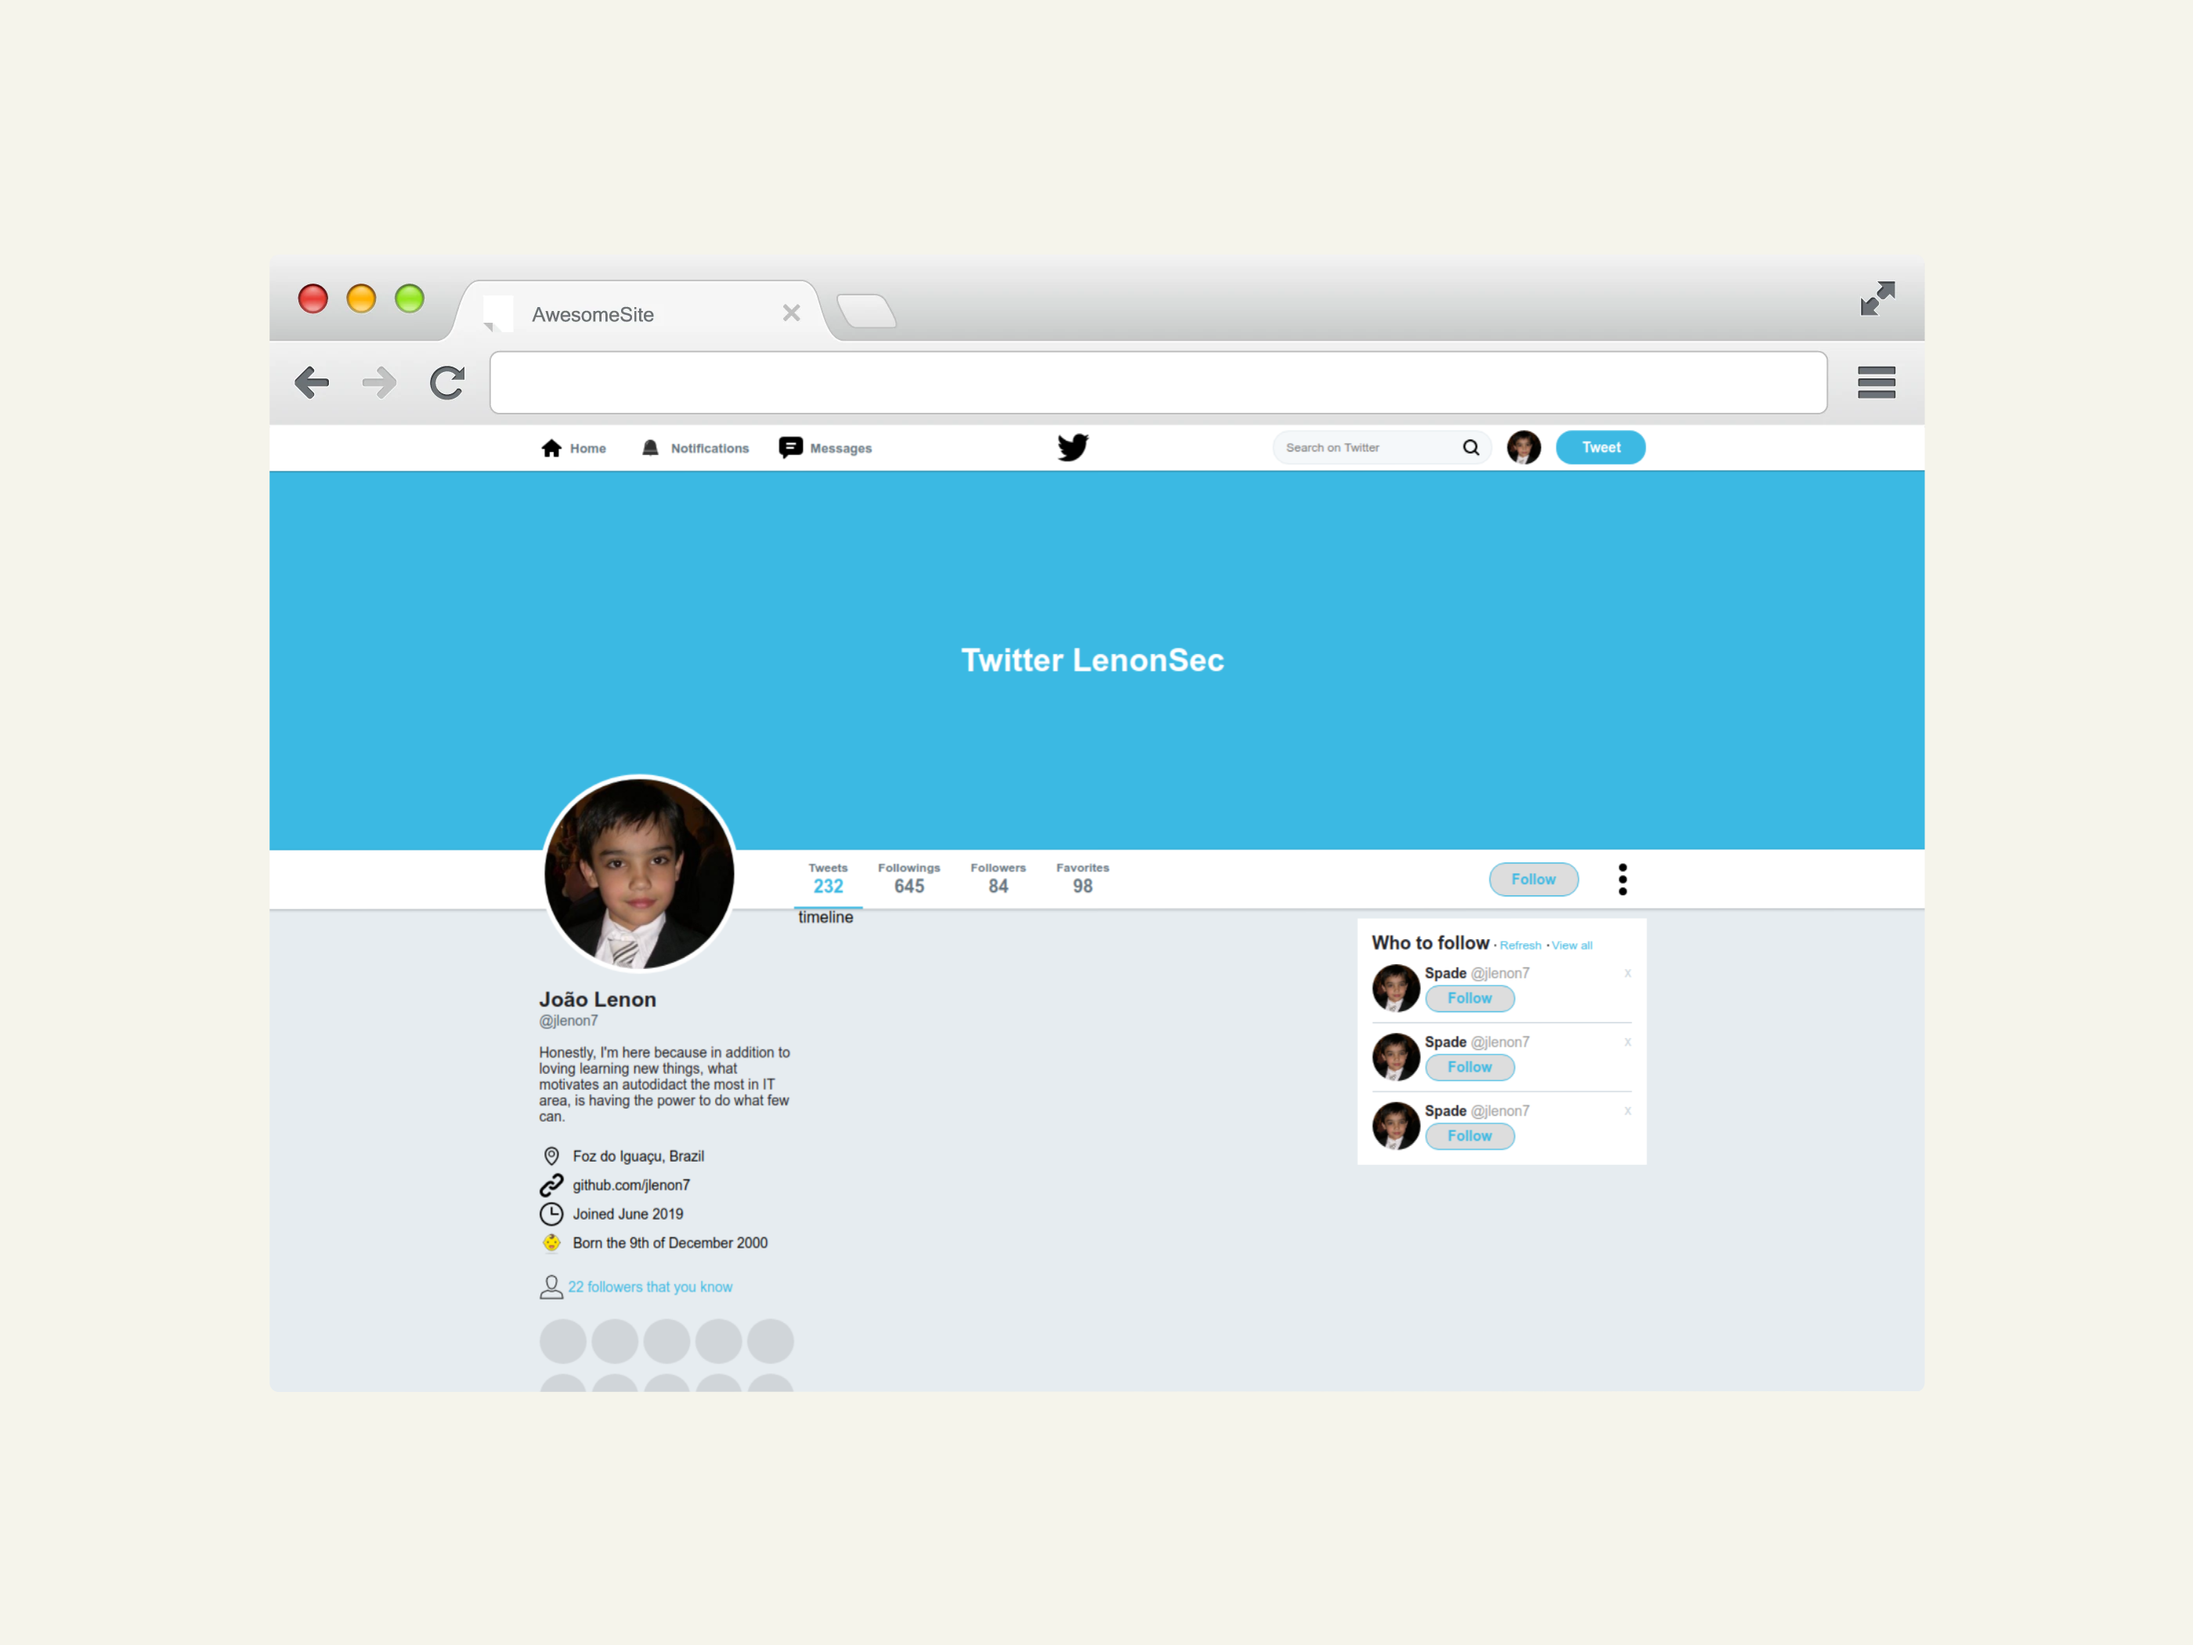
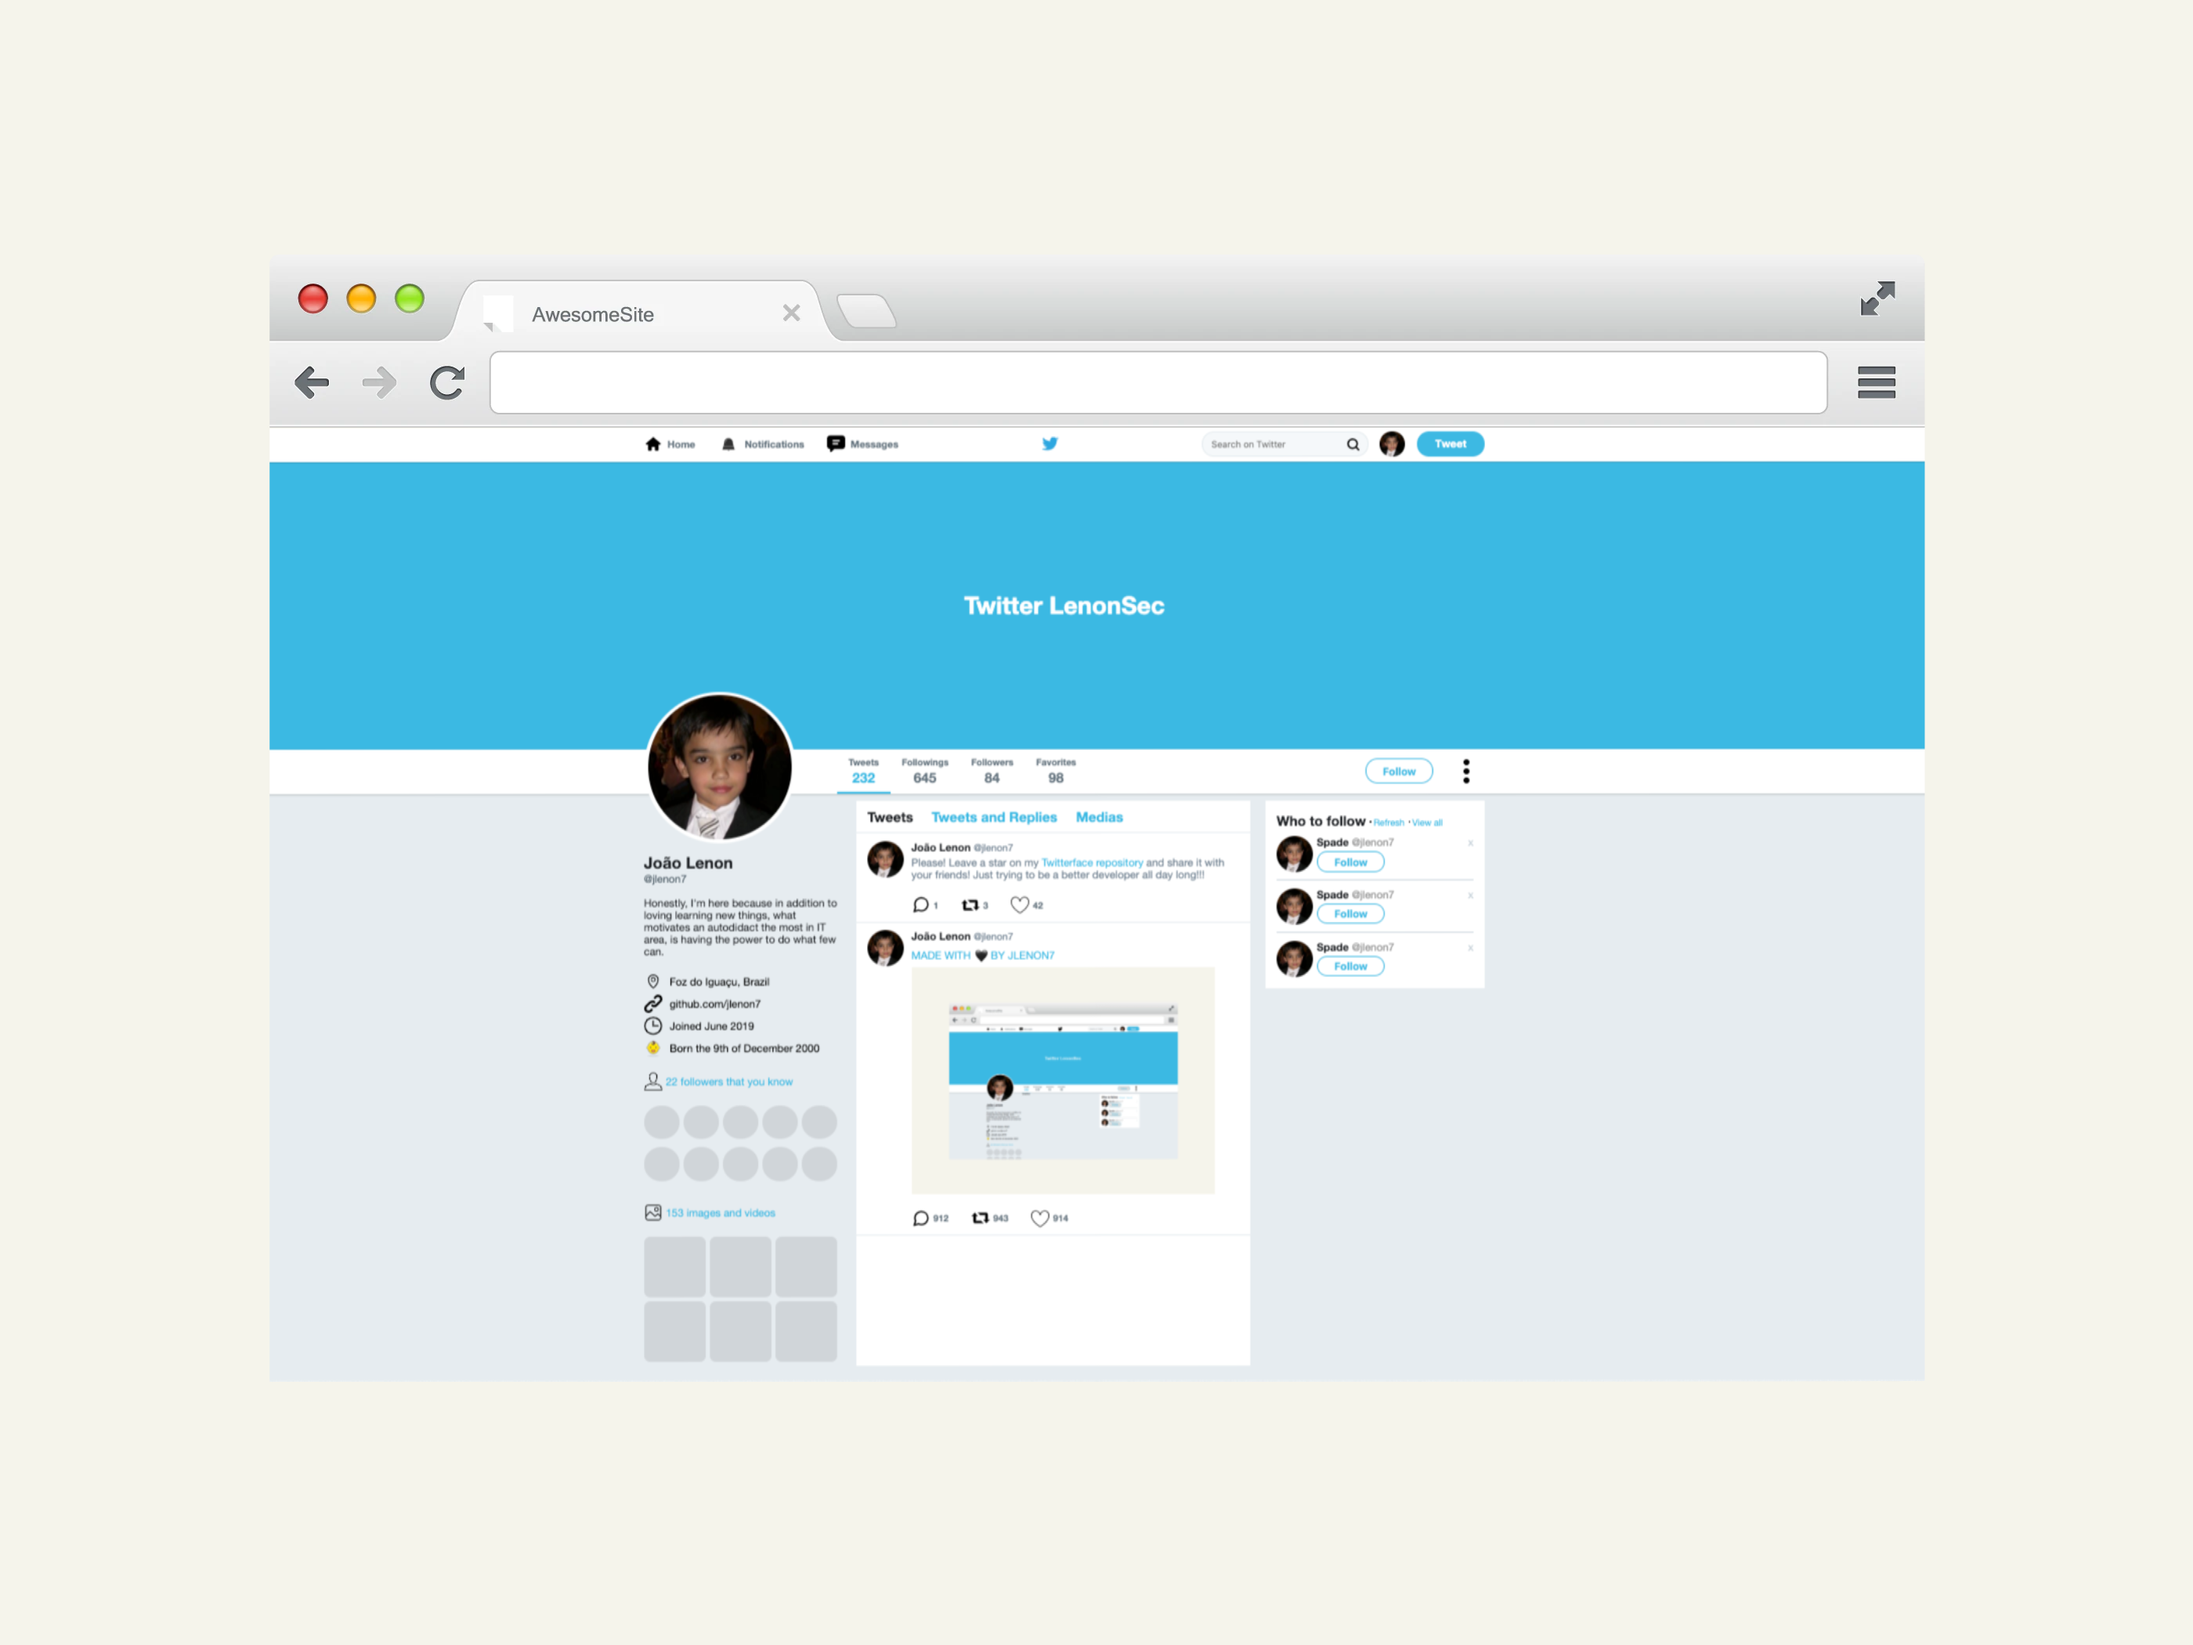
feat: 😢  Last commit/Timeline

Changed region(s): [[0.1243, 0.3405, 0.9011, 0.8357], [0.1243, 0.2476, 0.87, 0.3095], [0.2486, 0.8357, 0.3729, 0.8667]]

diff --git a/index.html b/index.html
@@ -5,6 +5,7 @@
         <meta name="viewport" content="width=device-width, initial-scale=1.0">
         <title>Twitter</title>
 
+        <link rel="icon" href="/images/logo.svg" sizes="16x16" />
         <link rel="stylesheet" href="styles.css">
     </head>
     <body>
@@ -105,7 +106,43 @@
                 </div>
             </aside>
 
-            <section class="timeline">timeline</section>
+            <section class="timeline">
+                <nav>
+                    <a href="" class="active">Tweets</a>
+                    <a href="">Tweets and Replies</a>
+                    <a href="">Medias</a>
+                </nav>
+
+                <ul class="tweets">
+                    <li>
+                        <img src="/images/avatar.png" alt="Avatar">
+                        <div class="info">
+                            <strong>João Lenon <span>@jlenon7</span></strong>
+                            <p>Please! Leave a star on my <a href="https://github.com/jlenon7/twitterface" target="_blank" class="repositorylink">Twitterface repository</a> and share it with your friends! Just trying to be a better developer all day long!!!</p>
+                            <div class="actions">
+                                <a href=""><img src="/images/twitte.svg" alt="Comments">1</a>
+                                <a href=""><img src="/images/retweet.svg" alt="Retweet">3</a>
+                                <a href=""><img src="/images/love.svg" alt="Like">42</a>
+                            </div>
+                        </div>
+                    </li>
+                    <li>
+                        <img src="/images/avatar.png" alt="Avatar">
+                        <div class="info">
+                            <strong>João Lenon <span>@jlenon7</span></strong>
+                            <p><a href="https://github.com/jlenon7/twitterface" target="_blank" class="repositorylink">MADE WITH 🖤 BY JLENON7</a></p>
+                            <div class="tweetimg">
+                                <img src="/.github/twitter-example.png" alt="Twitter Example">
+                            </div>
+                            <div class="actions">
+                                <a href=""><img src="/images/twitte.svg" alt="Comments">912</a>
+                                <a href=""><img src="/images/retweet.svg" alt="Retweet">943</a>
+                                <a href=""><img src="/images/love.svg" alt="Like">914</a>
+                            </div>
+                        </div>
+                    </li>
+                </ul>
+            </section>
 
             <aside class="widgets">
                 <div class="widget follow">

diff --git a/styles.css b/styles.css
@@ -297,6 +297,107 @@ div.wrapper-content aside.profile .images ul li {
 
 div.wrapper-content .timeline {
     flex: 1;
+    background: #FFF;
+    margin: 10px 20px 0;
+}
+
+div.wrapper-content .timeline nav {
+    border-bottom: 1px solid #E6ECF0;
+    padding: 10px 15px;
+}
+
+div.wrapper-content .timeline nav a {
+    text-decoration: none;
+    color: #3BB9E3;
+    font-size: 18px;
+    font-weight: bold;
+    margin-left: 20px;
+}
+
+div.wrapper-content .timeline nav a:first-child {
+    margin: 0;
+}
+
+div.wrapper-content .timeline nav a.active {
+    color: #1F2226;
+}
+
+div.wrapper-content .timeline ul.tweets {
+    list-style: none;
+}
+
+div.wrapper-content .timeline ul.tweets li {
+    border-bottom: 1px solid #E6ECF0;
+    padding: 10px 15px;
+    display: flex;
+}
+
+div.wrapper-content .timeline ul.tweets li > img {
+    width: 48px;
+    height: 48px;
+    border-radius: 50%;
+}
+
+div.wrapper-content .timeline ul.tweets li .info strong {
+    font-size: 14px;
+    color: #1F2226;
+}
+
+div.wrapper-content .timeline ul.tweets li .info div.tweetimg {
+    display: flex;
+    align-items: center;
+}
+
+div.wrapper-content .timeline ul.tweets li .info div.tweetimg img{
+    margin-top: 5px;
+    width: 400px;
+}
+
+div.wrapper-content .timeline ul.tweets li .info strong span {
+    font-weight: normal;
+    font-size: 13px;
+    color: #7B8B9A;
+}
+
+div.wrapper-content .timeline ul.tweets li .info p {
+    font-size: 14px;
+    color: #7B8B9A;
+    margin-top: 5px;
+}
+
+div.wrapper-content .timeline ul.tweets li .actions {
+    display: flex;
+    margin-top: 20px;
+}
+
+div.wrapper-content .timeline ul.tweets li .actions a {
+    display: flex;
+    align-items: center;
+    text-decoration: none;
+    color: #667580;
+    font-weight: bold;
+    font-size: 12px;
+    margin-left: 30px;
+}
+
+div.wrapper-content .timeline ul.tweets li .info p a.repositorylink {
+    text-decoration: none;
+    color: #3BB9E3;
+}
+
+div.wrapper-content .timeline ul.tweets li .actions a:first-child {
+    margin-left: 0;
+}
+
+div.wrapper-content .timeline ul.tweets li .actions a img {
+    margin-right: 5px;
+    width: 24px;
+}
+
+div.wrapper-content .timeline ul.tweets li .info {
+    margin-left: 10px;
+    display: flex;
+    flex-direction: column;
 }
 
 div.wrapper-content aside.widgets {
